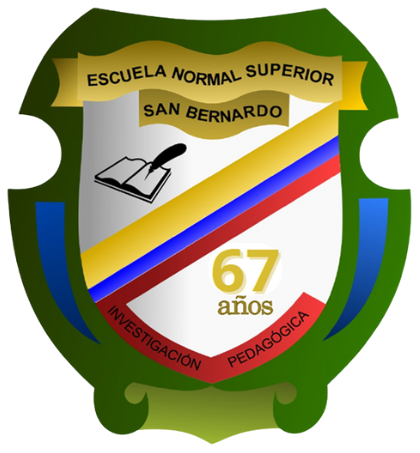
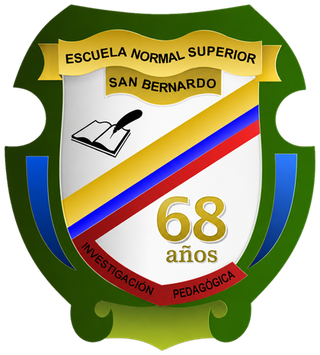
Corregir los años de tradición: 68 en lugar de 67
- Texto de respaldo del inicio y pie de página de las 11 páginas:
  "68 años" (la base de datos ya decía 68 en el encabezado del inicio).
- Contador "Años de tradición" de Nuestro Colegio: 68.
- Escudo institucional (escudo-ens.png): versión con "68 años" tomada de
  la presentación del PFC, optimizada a 320x355 (151 KB).
- Se conserva "artículo 67" de la Constitución en el texto de la
  diapositiva 5 (no es una cifra de años).

Claude-Session: https://claude.ai/code/session_01TrkGR5T7rJNeE8JZP6gJYi

diff --git a/public/index.html b/public/index.html
@@ -455,7 +455,7 @@
   <div class="hero-overlay"></div>
 
   <div class="container hero-content">
-    <div class="hero-eyebrow" data-cms="home_hero_eyebrow">Institución Educativa Departamental · 67 años formando maestros</div>
+    <div class="hero-eyebrow" data-cms="home_hero_eyebrow">Institución Educativa Departamental · 68 años formando maestros</div>
     <h1 data-cms="home_hero_titulo">Formamos maestras y maestros para la Colombia rural.</h1>
     <p class="lead" data-cms="home_hero_subtitulo">Desde las veredas del páramo de Sumapaz, en San Bernardo, Cundinamarca, ofrecemos educación desde preescolar hasta la media, y formamos Normalistas Superiores a través de nuestro Programa de Formación Complementaria — con vocación pedagógica, arraigo rural y compromiso con el territorio.</p>
     <div class="hero-ctas">
@@ -576,7 +576,7 @@
         <span class="escudo-badge" style="width:44px;height:44px;">
           <img src="/img/escudo-ens.png" alt="Escudo de la Escuela Normal Superior de San Bernardo">
         </span>
-        <p>Escuela Normal Superior de San Bernardo, Cundinamarca. Formación de maestros con enfoque rural — 67 años de tradición pedagógica.</p>
+        <p>Escuela Normal Superior de San Bernardo, Cundinamarca. Formación de maestros con enfoque rural — 68 años de tradición pedagógica.</p>
         <div class="footer-social">
           <a href="#" aria-label="Facebook">f</a>
           <a href="#" aria-label="Instagram">ig</a>

diff --git a/public/nuestro-colegio.html b/public/nuestro-colegio.html
@@ -593,7 +593,7 @@
       <div class="dato-item"><span class="valor">690</span><span class="etiqueta">Estudiantes (2026)</span></div>
       <div class="dato-item"><span class="valor">51</span><span class="etiqueta">Docentes</span></div>
       <div class="dato-item"><span class="valor">8</span><span class="etiqueta">Sedes + principal</span></div>
-      <div class="dato-item"><span class="valor">67</span><span class="etiqueta">Años de tradición</span></div>
+      <div class="dato-item"><span class="valor">68</span><span class="etiqueta">Años de tradición</span></div>
     </div>
   </div>
 </section>
@@ -752,7 +752,7 @@ entonemos un himno de amor.</p>
         <span class="escudo-badge" style="width:44px;height:44px;">
           <img src="/img/escudo-ens.png" alt="Escudo de la Escuela Normal Superior de San Bernardo">
         </span>
-        <p>Escuela Normal Superior de San Bernardo, Cundinamarca. Formación de maestros con enfoque rural — 67 años de tradición pedagógica.</p>
+        <p>Escuela Normal Superior de San Bernardo, Cundinamarca. Formación de maestros con enfoque rural — 68 años de tradición pedagógica.</p>
         <div class="footer-social">
           <a href="#" aria-label="Facebook">f</a>
           <a href="#" aria-label="Instagram">ig</a>

diff --git a/public/calendario.html b/public/calendario.html
@@ -499,7 +499,7 @@
         <span class="escudo-badge" style="width:44px;height:44px;">
           <img src="/img/escudo-ens.png" alt="Escudo de la Escuela Normal Superior de San Bernardo">
         </span>
-        <p>Escuela Normal Superior de San Bernardo, Cundinamarca. Formación de maestros con enfoque rural — 67 años de tradición pedagógica.</p>
+        <p>Escuela Normal Superior de San Bernardo, Cundinamarca. Formación de maestros con enfoque rural — 68 años de tradición pedagógica.</p>
         <div class="footer-social">
           <a href="#" aria-label="Facebook">f</a>
           <a href="#" aria-label="Instagram">ig</a>

diff --git a/public/circulares.html b/public/circulares.html
@@ -477,7 +477,7 @@
         <span class="escudo-badge" style="width:44px;height:44px;">
           <img src="/img/escudo-ens.png" alt="Escudo de la Escuela Normal Superior de San Bernardo">
         </span>
-        <p>Escuela Normal Superior de San Bernardo, Cundinamarca. Formación de maestros con enfoque rural — 67 años de tradición pedagógica.</p>
+        <p>Escuela Normal Superior de San Bernardo, Cundinamarca. Formación de maestros con enfoque rural — 68 años de tradición pedagógica.</p>
         <div class="footer-social">
           <a href="#" aria-label="Facebook">f</a>
           <a href="#" aria-label="Instagram">ig</a>

diff --git a/public/contacto.html b/public/contacto.html
@@ -596,7 +596,7 @@
         <span class="escudo-badge" style="width:44px;height:44px;">
           <img src="/img/escudo-ens.png" alt="Escudo de la Escuela Normal Superior de San Bernardo">
         </span>
-        <p>Escuela Normal Superior de San Bernardo, Cundinamarca. Formación de maestros con enfoque rural — 67 años de tradición pedagógica.</p>
+        <p>Escuela Normal Superior de San Bernardo, Cundinamarca. Formación de maestros con enfoque rural — 68 años de tradición pedagógica.</p>
         <div class="footer-social">
           <a href="#" aria-label="Facebook">f</a>
           <a href="#" aria-label="Instagram">ig</a>

diff --git a/public/formacion-maestros.html b/public/formacion-maestros.html
@@ -941,7 +941,7 @@
         <span class="escudo-badge" style="width:44px;height:44px;">
           <img src="/img/escudo-ens.png" alt="Escudo de la Escuela Normal Superior de San Bernardo">
         </span>
-        <p>Escuela Normal Superior de San Bernardo, Cundinamarca. Formación de maestros con enfoque rural — 67 años de tradición pedagógica.</p>
+        <p>Escuela Normal Superior de San Bernardo, Cundinamarca. Formación de maestros con enfoque rural — 68 años de tradición pedagógica.</p>
         <div class="footer-social">
           <a href="#" aria-label="Facebook">f</a>
           <a href="#" aria-label="Instagram">ig</a>

diff --git a/public/galeria.html b/public/galeria.html
@@ -506,7 +506,7 @@
         <span class="escudo-badge" style="width:44px;height:44px;">
           <img src="/img/escudo-ens.png" alt="Escudo de la Escuela Normal Superior de San Bernardo">
         </span>
-        <p>Escuela Normal Superior de San Bernardo, Cundinamarca. Formación de maestros con enfoque rural — 67 años de tradición pedagógica.</p>
+        <p>Escuela Normal Superior de San Bernardo, Cundinamarca. Formación de maestros con enfoque rural — 68 años de tradición pedagógica.</p>
         <div class="footer-social">
           <a href="#" aria-label="Facebook">f</a>
           <a href="#" aria-label="Instagram">ig</a>

diff --git a/public/noticias.html b/public/noticias.html
@@ -464,7 +464,7 @@
         <span class="escudo-badge" style="width:44px;height:44px;">
           <img src="/img/escudo-ens.png" alt="Escudo de la Escuela Normal Superior de San Bernardo">
         </span>
-        <p>Escuela Normal Superior de San Bernardo, Cundinamarca. Formación de maestros con enfoque rural — 67 años de tradición pedagógica.</p>
+        <p>Escuela Normal Superior de San Bernardo, Cundinamarca. Formación de maestros con enfoque rural — 68 años de tradición pedagógica.</p>
         <div class="footer-social">
           <a href="#" aria-label="Facebook">f</a>
           <a href="#" aria-label="Instagram">ig</a>

diff --git a/public/oferta-educativa.html b/public/oferta-educativa.html
@@ -553,7 +553,7 @@
         <span class="escudo-badge" style="width:44px;height:44px;">
           <img src="/img/escudo-ens.png" alt="Escudo de la Escuela Normal Superior de San Bernardo">
         </span>
-        <p>Escuela Normal Superior de San Bernardo, Cundinamarca. Formación de maestros con enfoque rural — 67 años de tradición pedagógica.</p>
+        <p>Escuela Normal Superior de San Bernardo, Cundinamarca. Formación de maestros con enfoque rural — 68 años de tradición pedagógica.</p>
         <div class="footer-social">
           <a href="#" aria-label="Facebook">f</a>
           <a href="#" aria-label="Instagram">ig</a>

diff --git a/public/proyectos-investigacion.html b/public/proyectos-investigacion.html
@@ -578,7 +578,7 @@
         <span class="escudo-badge" style="width:44px;height:44px;">
           <img src="/img/escudo-ens.png" alt="Escudo de la Escuela Normal Superior de San Bernardo">
         </span>
-        <p>Escuela Normal Superior de San Bernardo, Cundinamarca. Formación de maestros con enfoque rural — 67 años de tradición pedagógica.</p>
+        <p>Escuela Normal Superior de San Bernardo, Cundinamarca. Formación de maestros con enfoque rural — 68 años de tradición pedagógica.</p>
         <div class="footer-social">
           <a href="#" aria-label="Facebook">f</a>
           <a href="#" aria-label="Instagram">ig</a>

diff --git a/public/tramites-servicios.html b/public/tramites-servicios.html
@@ -606,7 +606,7 @@
         <span class="escudo-badge" style="width:44px;height:44px;">
           <img src="/img/escudo-ens.png" alt="Escudo de la Escuela Normal Superior de San Bernardo">
         </span>
-        <p>Escuela Normal Superior de San Bernardo, Cundinamarca. Formación de maestros con enfoque rural — 67 años de tradición pedagógica.</p>
+        <p>Escuela Normal Superior de San Bernardo, Cundinamarca. Formación de maestros con enfoque rural — 68 años de tradición pedagógica.</p>
         <div class="footer-social">
           <a href="#" aria-label="Facebook">f</a>
           <a href="#" aria-label="Instagram">ig</a>
